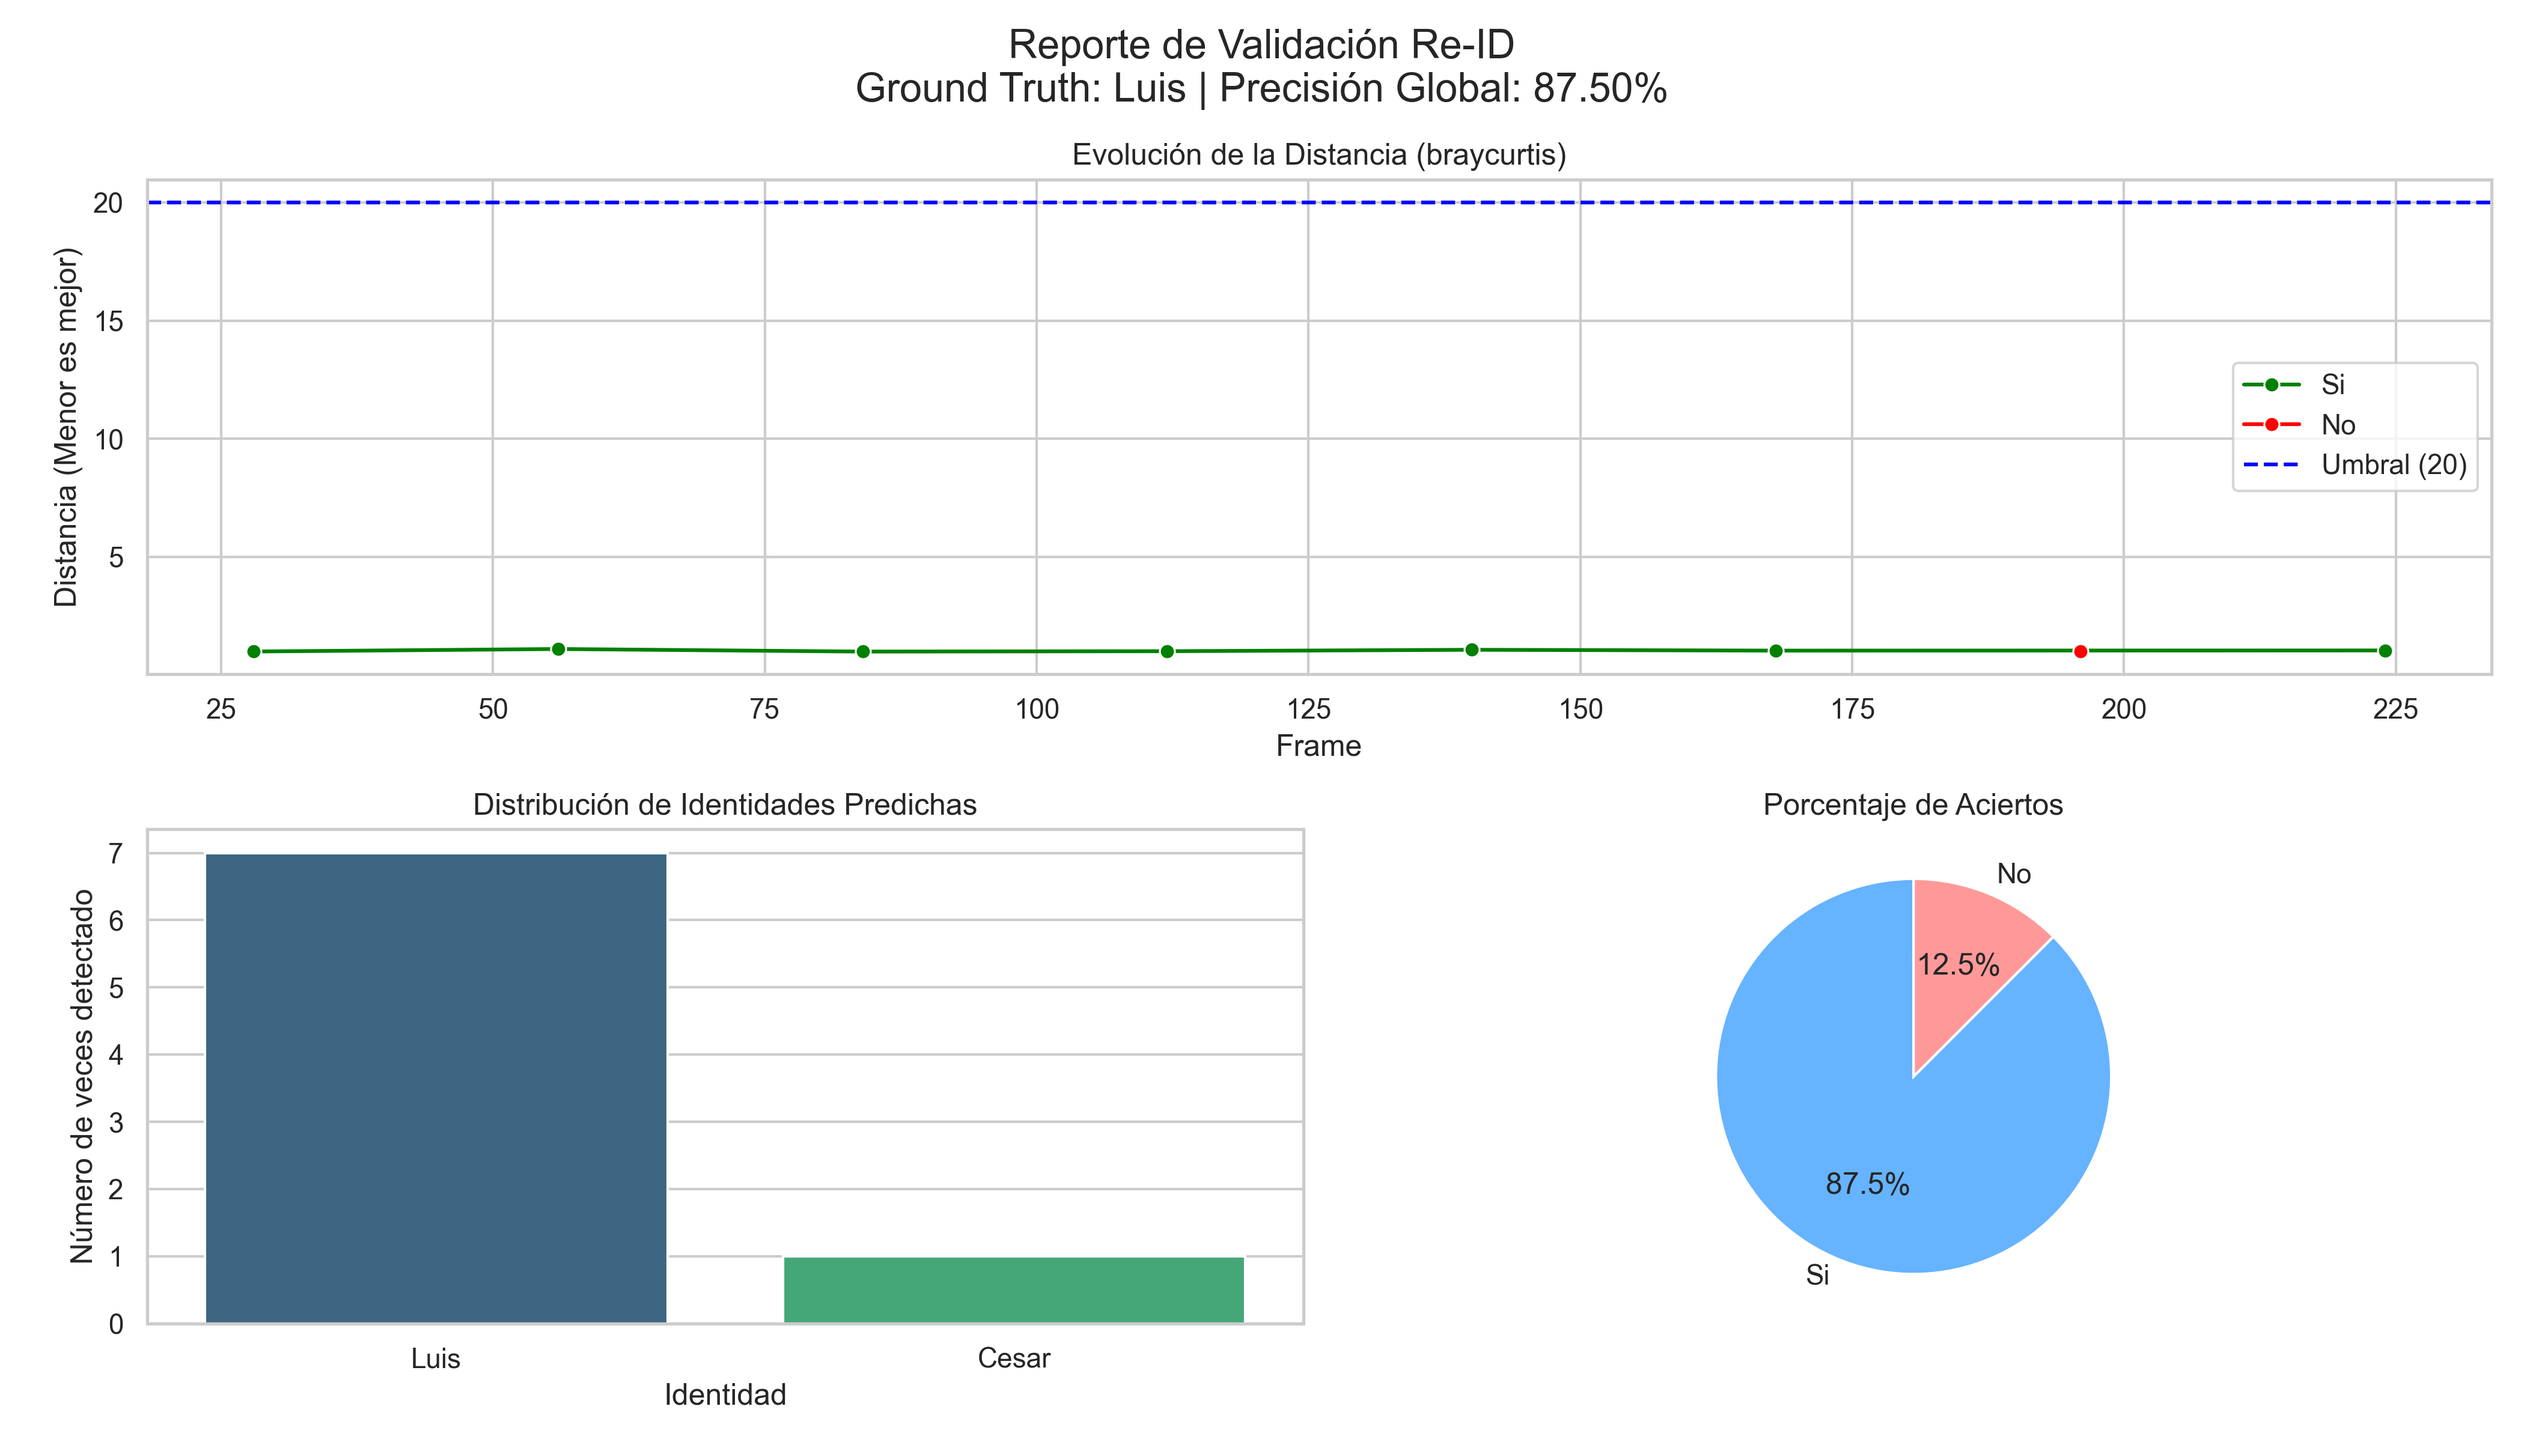
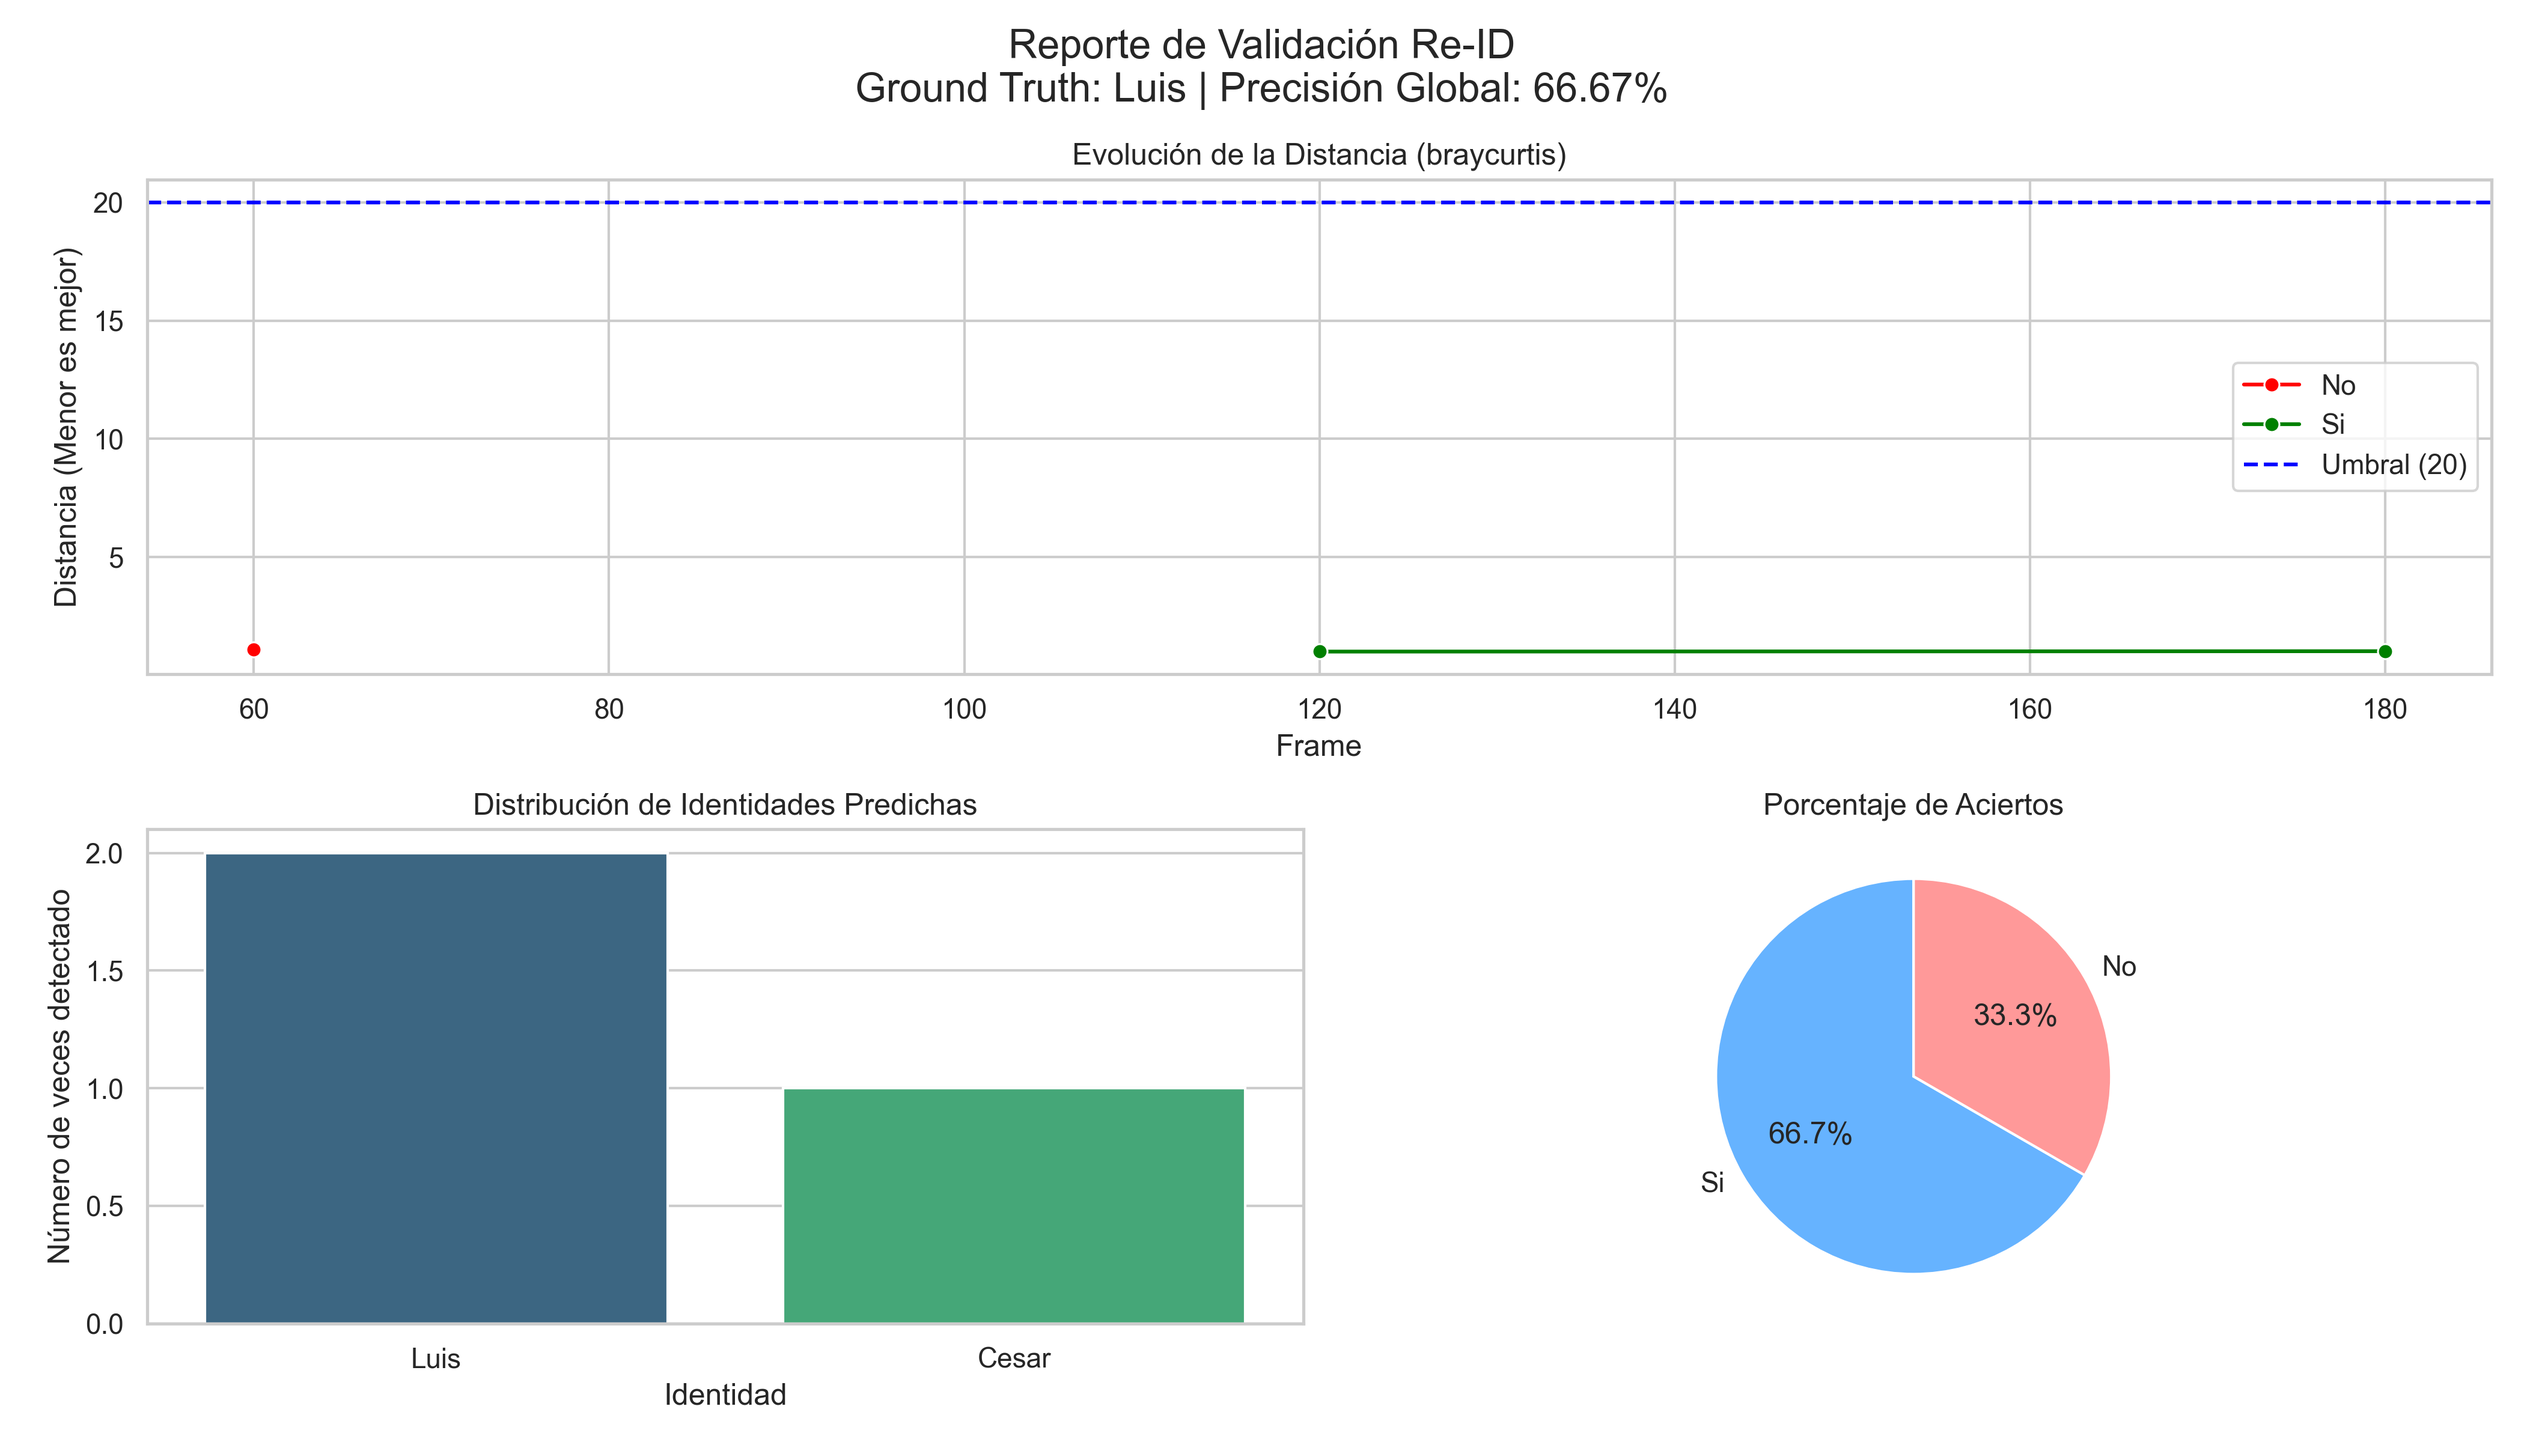
60 DE ACEPTACION EN AMBOS

diff --git a/estadisticos.py b/estadisticos.py
@@ -21,7 +21,7 @@ SIAMESE_MODEL_PATH = './best_siamese_model.pth'
 DATABASE_PATH = './reference_embeddings.pkl'
 
 # Parámetros
-SEQUENCE_LENGTH = 28
+SEQUENCE_LENGTH = 60
 REID_THRESHOLD = 20 # Ajusta esto según tus pruebas
 INPUT_WIDTH = 640
 INPUT_HEIGHT = 640
